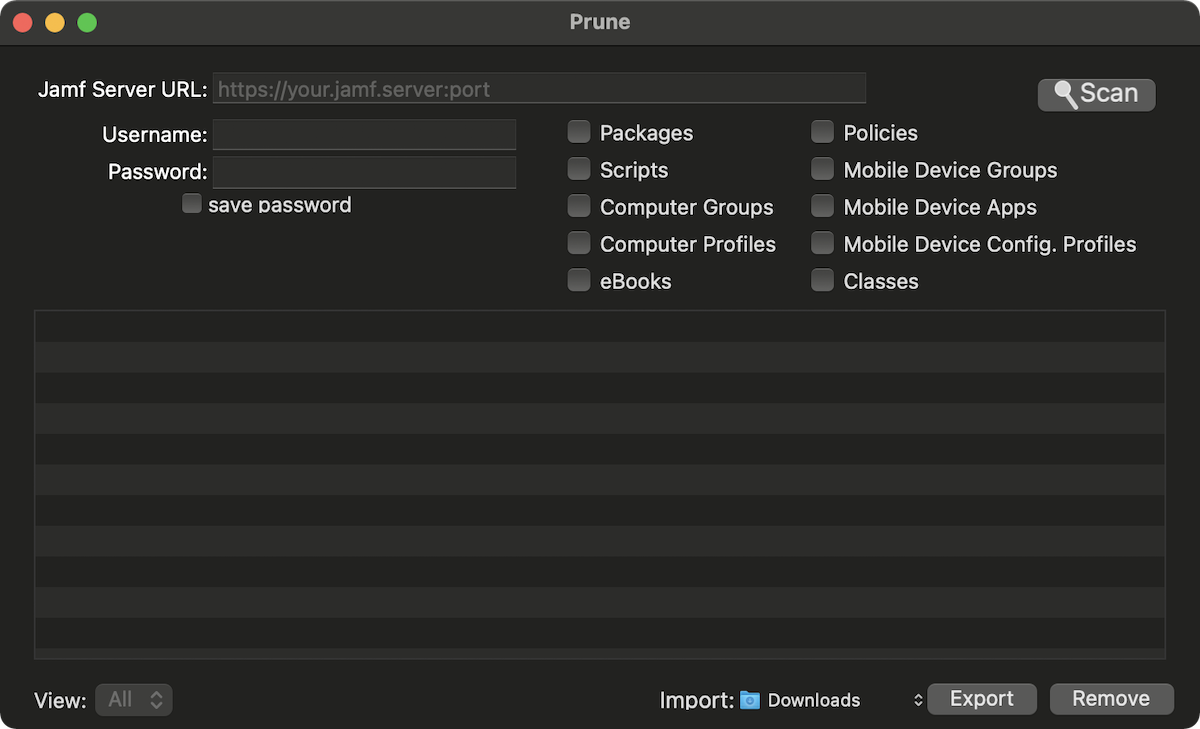
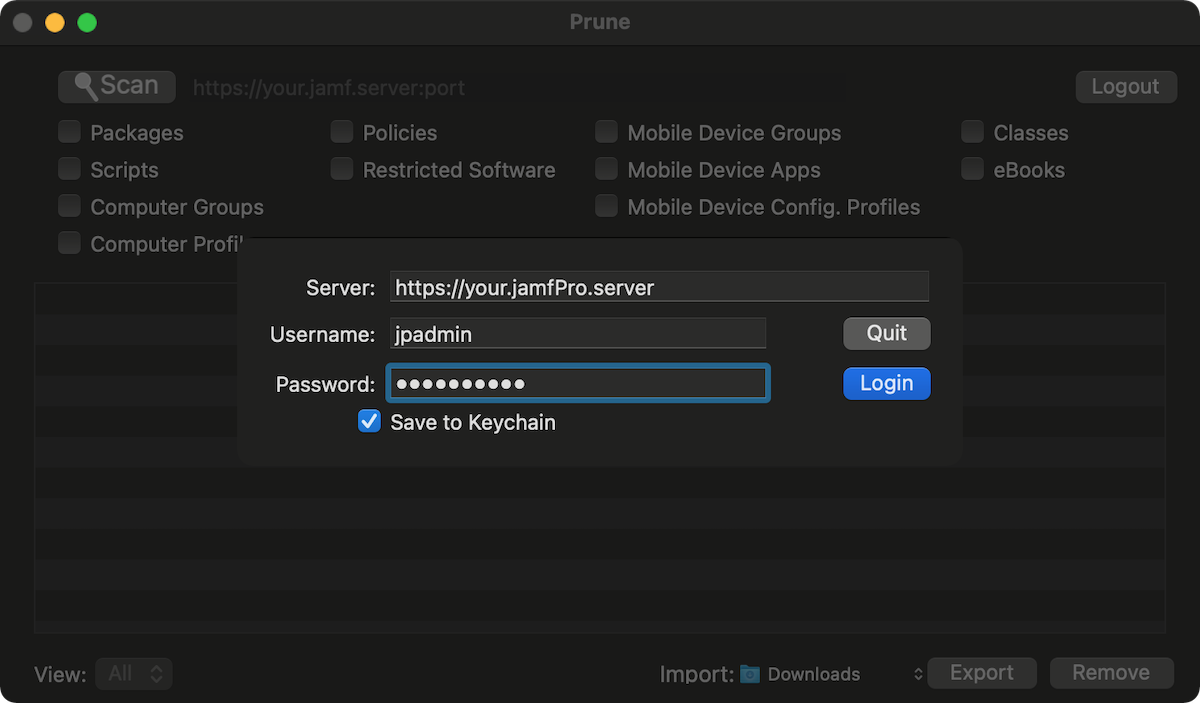
update readme

diff --git a/README.md b/README.md
@@ -53,6 +53,10 @@ Once the list of unused items is generated you can edit it within the app.  If y
             <td>Check scope</td>
         </tr>
         <tr>
+            <td>Restricted Software</td>
+            <td>Check scope for computer groups</td>
+        </tr>
+        <tr>
             <td>Mobile Device Groups</td>
             <td>Check for usage in mobile device apps, mobile device configuration profiles, mobile device groups, eBooks, classes</td>
         </tr>
@@ -73,6 +77,8 @@ This application deletes stuff, use with caution!  It is recommended you have a 
 <br><br><hr><br>
 
 ### History:
+2022-01-17 - Apologies in advance.  Layout changed as a dedicated login window was added.  Added restricted softare as an item to query.  Changed Remove button to Delete.
+
 2021-09-23 - Fixed issue where ebooks and classes were not getting deleted.
 
 2021-09-23 - Updated URL used for a token request from Jamf Pro API, corrected extra comma in exported items, added export summary.
